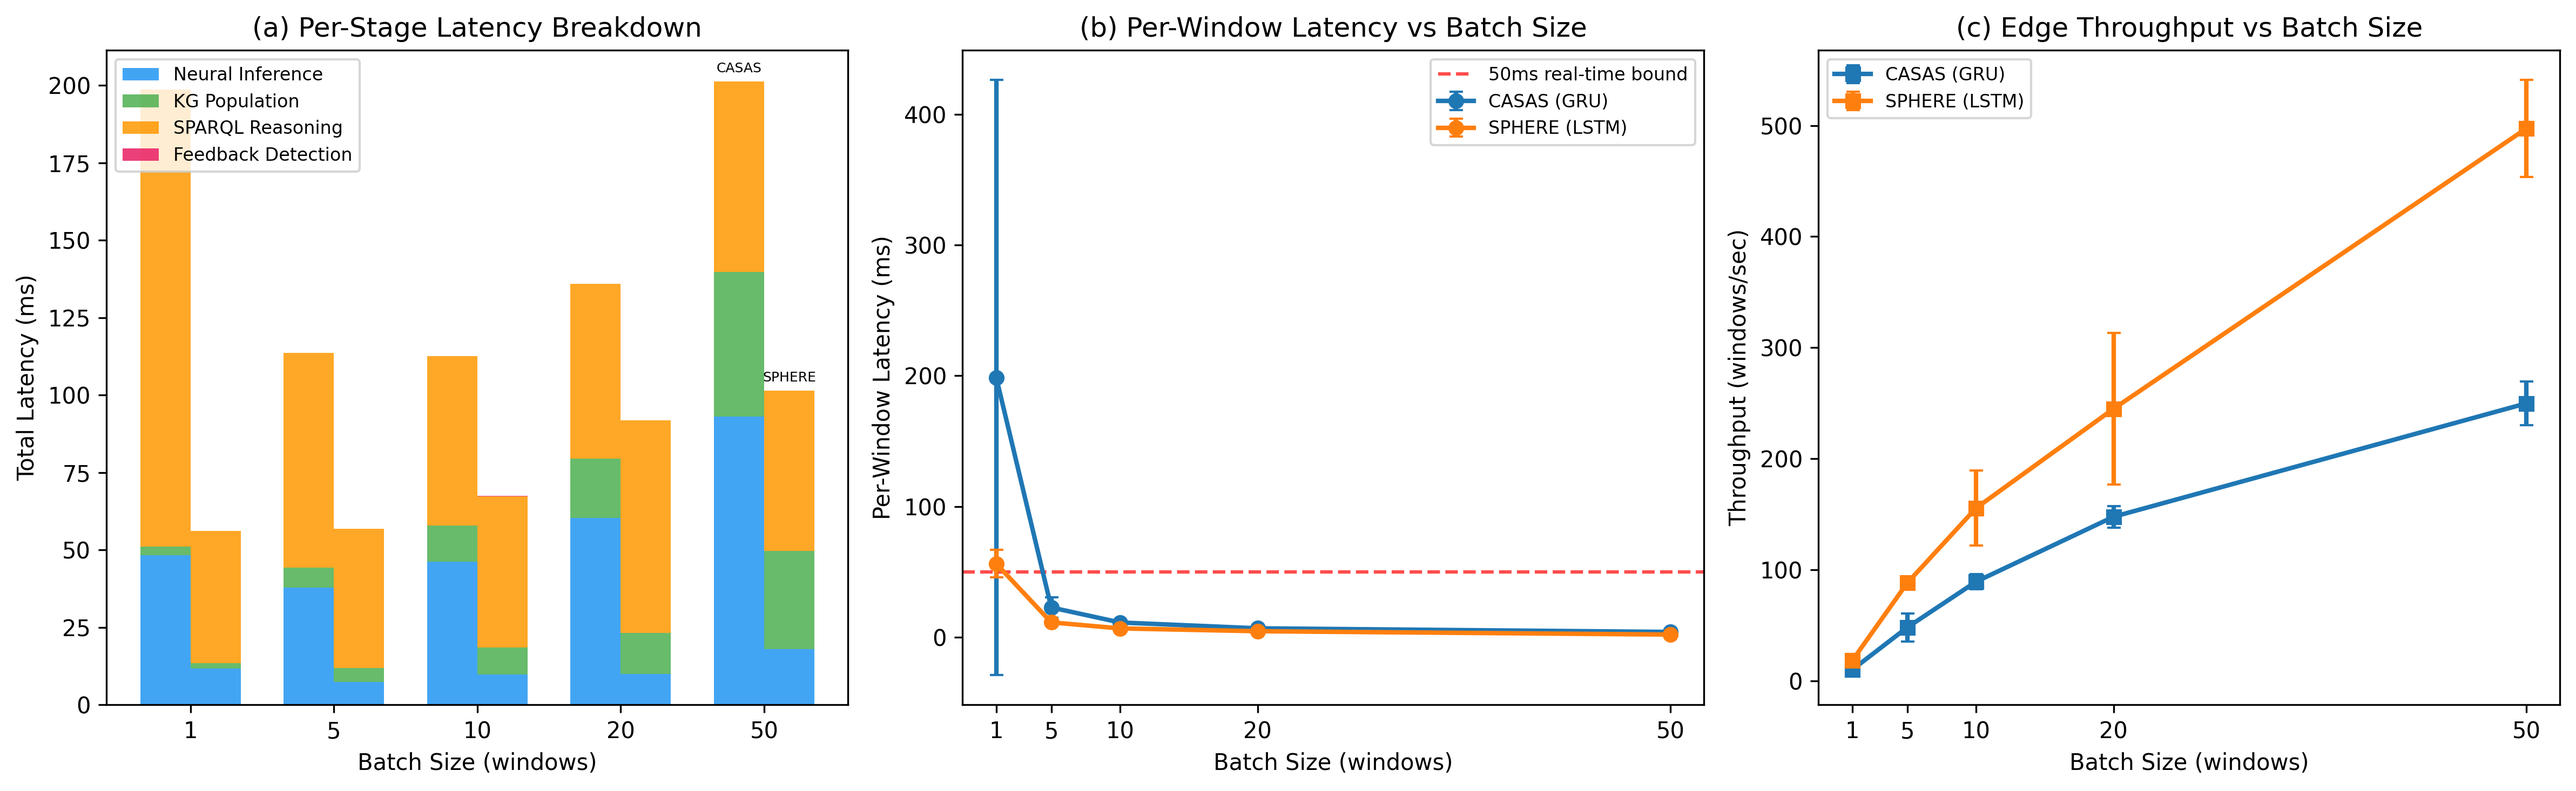
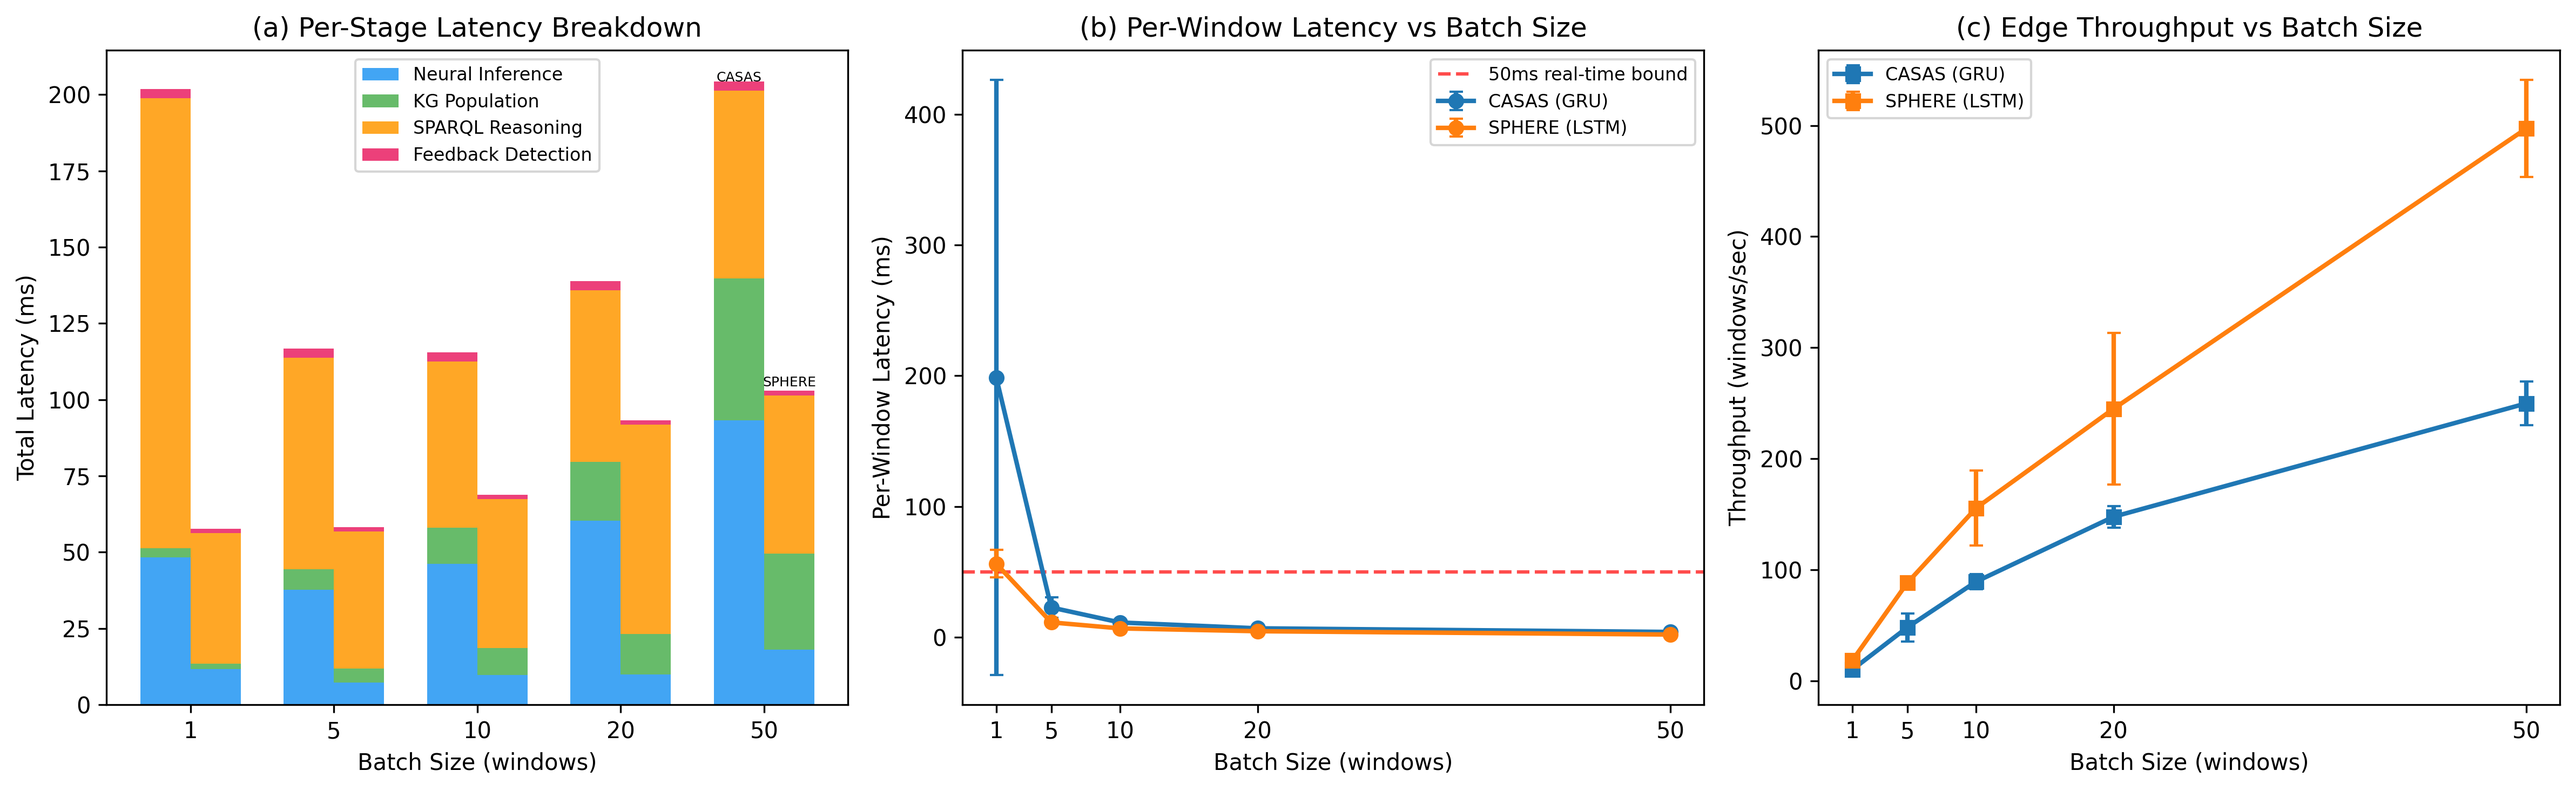
fix: Figure 10 legend to upper center, make feedback bar visible

diff --git a/fig/generate_edge_latency.py b/fig/generate_edge_latency.py
@@ -44,19 +44,22 @@ def main() -> int:
         ds_data = results["datasets"][ds]
         offset = (di - 0.5) * width
         bottom = np.zeros(n_bars)
+        max_total = max(r["total_e2e_ms_mean"] for r in ds_data)
         for si, skey in enumerate(STAGE_KEYS):
             vals = np.array([r[skey + "_mean"] for r in ds_data])
+            # Ensure feedback bar is visible (min 1.5% of max total)
+            display_vals = np.maximum(vals, max_total * 0.015)
             label = STAGE_LABELS[si] if di == 0 else None
-            ax.bar(x + offset, vals, width, bottom=bottom,
+            ax.bar(x + offset, display_vals, width, bottom=bottom,
                    color=STAGE_COLORS[si], label=label, alpha=0.85)
-            bottom += vals
+            bottom += display_vals
 
     ax.set_xlabel("Batch Size (windows)")
     ax.set_ylabel("Total Latency (ms)")
     ax.set_title("(a) Per-Stage Latency Breakdown")
     ax.set_xticks(x)
     ax.set_xticklabels([str(b) for b in batch_sizes])
-    ax.legend(fontsize=8, loc="upper left")
+    ax.legend(fontsize=8, loc="upper center", ncol=1)
 
     # Dataset labels on top bars
     for di, ds in enumerate(datasets):
